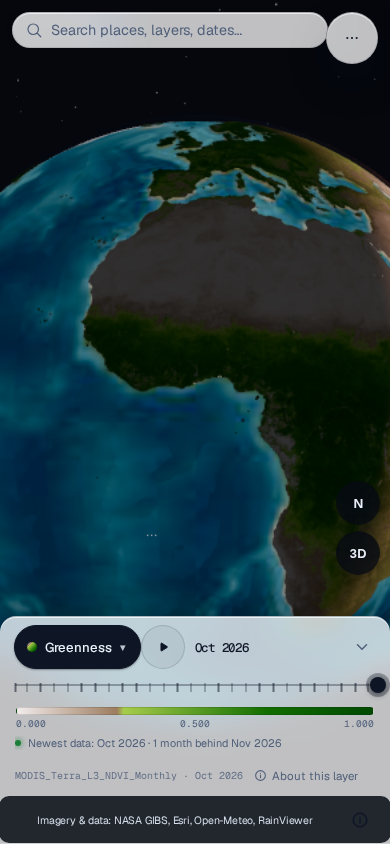
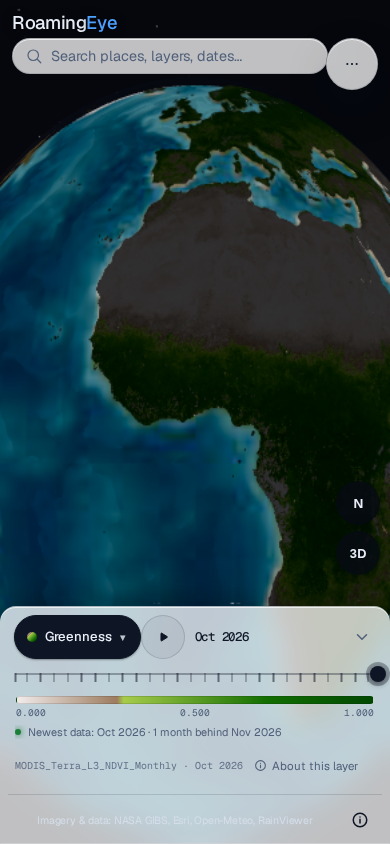
Polish compact mobile layout at 390×844
Restore the RoamingEye wordmark above search, stack credits below the
timeline with a divider and spacing, and letterbox the camera between header
and dock so the globe sits in the chrome band on phones. Refresh mobile
preview shots and add a desktop reference capture.

diff --git a/src/main.ts b/src/main.ts
@@ -1344,19 +1344,44 @@ function applyGaze(): void {
   }
 }
 
-/** Frame the whole globe between the header and the bottom dock on phones. */
-function fitMobileGlobeInChrome(): void {
-  if (!window.matchMedia("(max-width: 540px)").matches) return;
+/** Top/bottom chrome bounding the globe on phones (css px). */
+function mobileGlobeChromeBand(): { top: number; bottom: number } | null {
+  if (!window.matchMedia("(max-width: 540px)").matches) return null;
   const header = document.querySelector<HTMLElement>(".overlay--top");
   const dock = document.querySelector<HTMLElement>(".overlay--bottom");
   const search = document.querySelector<HTMLElement>(".search");
-  if (!header || !dock) return;
+  if (!header || !dock) return null;
   const top = Math.max(
     header.getBoundingClientRect().bottom,
     search?.getBoundingClientRect().bottom ?? 0
   );
   const bottom = dock.getBoundingClientRect().top;
-  const avail = Math.max(160, bottom - top);
+  return { top, bottom };
+}
+
+/** Letterbox the camera to the chrome-safe band so the globe sits in its centre. */
+function syncMobileViewOffset(): void {
+  const band = mobileGlobeChromeBand();
+  if (!band) {
+    camera.clearViewOffset();
+    camera.aspect = window.innerWidth / window.innerHeight;
+    camera.updateProjectionMatrix();
+    return;
+  }
+  const fullW = window.innerWidth;
+  const fullH = window.innerHeight;
+  const viewH = Math.max(160, Math.round(band.bottom - band.top));
+  camera.setViewOffset(fullW, fullH, 0, Math.round(band.top), fullW, viewH);
+  camera.aspect = fullW / fullH;
+  camera.updateProjectionMatrix();
+}
+
+/** Frame the whole globe between the header and the bottom dock on phones. */
+function fitMobileGlobeInChrome(): void {
+  const band = mobileGlobeChromeBand();
+  if (!band) return;
+  syncMobileViewOffset();
+  const avail = Math.max(160, band.bottom - band.top);
   const vFovRad = (camera.fov * Math.PI) / 180;
   const effectiveVfov = vFovRad * (avail / window.innerHeight);
   let distance = (TERRAIN_SURFACE_SCALE / Math.sin(effectiveVfov / 2)) * 1.08;
@@ -1370,6 +1395,7 @@ function fitMobileGlobeInChrome(): void {
   applyGaze();
   controls.target.set(0, 0, 0);
   controls.update();
+  syncMobileViewOffset();
 }
 
 /** Keep the camera above the ground under it, and fit the depth planes to that. */
@@ -4499,9 +4525,11 @@ document.addEventListener("visibilitychange", () => {
 
 // --- Resize handling --------------------------------------------------------
 window.addEventListener("resize", () => {
-  camera.aspect = window.innerWidth / window.innerHeight;
-  camera.updateProjectionMatrix();
+  syncMobileViewOffset();
   renderer.setSize(window.innerWidth, window.innerHeight);
+  if (window.matchMedia("(max-width: 540px)").matches) {
+    requestAnimationFrame(fitMobileGlobeInChrome);
+  }
 });
 
 // --- Helpers ----------------------------------------------------------------

diff --git a/src/style.css b/src/style.css
@@ -5233,7 +5233,20 @@ body {
     gap: 0.5rem;
   }
 
+  #app.mobile-compact-ui .overlay--top {
+    padding: clamp(0.75rem, 2vw, 1.25rem);
+    padding-bottom: 0.3rem;
+  }
+
+  #app.mobile-compact-ui .brand {
+    display: block;
+    font-size: 1.15rem;
+    line-height: 1.2;
+    pointer-events: auto;
+  }
+
   #app.mobile-compact-ui .search {
+    top: calc(clamp(0.75rem, 2vw, 1.25rem) + 1.65rem);
     left: clamp(0.75rem, 2vw, 1.25rem);
     right: calc(clamp(0.75rem, 2vw, 1.25rem) + 44px + 0.4rem);
     width: auto;
@@ -5242,7 +5255,7 @@ body {
   #app.mobile-compact-ui .actions {
     left: auto;
     width: auto;
-    top: clamp(0.75rem, 2vw, 1.25rem);
+    top: calc(clamp(0.75rem, 2vw, 1.25rem) + 1.65rem);
     right: clamp(0.75rem, 2vw, 1.25rem);
   }
 
@@ -5299,7 +5312,7 @@ body {
     display: flex;
     flex-direction: column;
     align-items: stretch;
-    gap: 0;
+    gap: 0.25rem;
     padding: 0.15rem max(0.5rem, env(safe-area-inset-left, 0px))
       max(0.35rem, env(safe-area-inset-bottom, 0px))
       max(0.5rem, env(safe-area-inset-right, 0px));
@@ -5338,11 +5351,12 @@ body {
     width: 100%;
     max-width: none;
     margin: 0;
-    padding: 0.1rem 0.25rem 0;
+    padding: 0.45rem 0.25rem 0;
     font-size: 0.66rem;
     letter-spacing: -0.02em;
     pointer-events: auto;
-    z-index: 1;
+    z-index: 0;
+    border-top: 1px solid var(--control-border);
     background: transparent;
   }
 
@@ -5412,9 +5426,9 @@ body {
     grid-template-areas:
       "layer play month spacer fold"
       "track track track track track";
-    padding: 0.35rem 0.35rem 0.15rem;
+    padding: 0.35rem 0.35rem 0.35rem;
     min-height: 64px;
-    max-height: 72px;
+    max-height: 78px;
   }
 
   #app.mobile-compact-ui
@@ -5524,7 +5538,7 @@ body {
   }
 
   #app.mobile-compact-ui .probe {
-    top: clamp(5.75rem, 17vh, 8.5rem);
+    top: clamp(6.5rem, 18vh, 9.25rem);
     bottom: auto;
     left: 50%;
     transform: translate(-50%, 0);

diff --git a/docs/mobile-ui-preview/README.md b/docs/mobile-ui-preview/README.md
@@ -8,6 +8,7 @@ Screenshots of the compact phone layout at iPhone 14 width.
 | `after-default-390x844.png`         | Compact timeline bar, collapsed legend sheet, credits line   |
 | `after-legend-expanded-390x844.png` | Legend and data details expanded                             |
 | `after-menu-open-390x844.png`       | More menu with Draw / Compare / Share                        |
+| `after-desktop-1280x900.png`        | Desktop layout after mobile polish (no regression check)     |
 
 Regenerate after images with the preview server on port 4173:
 
